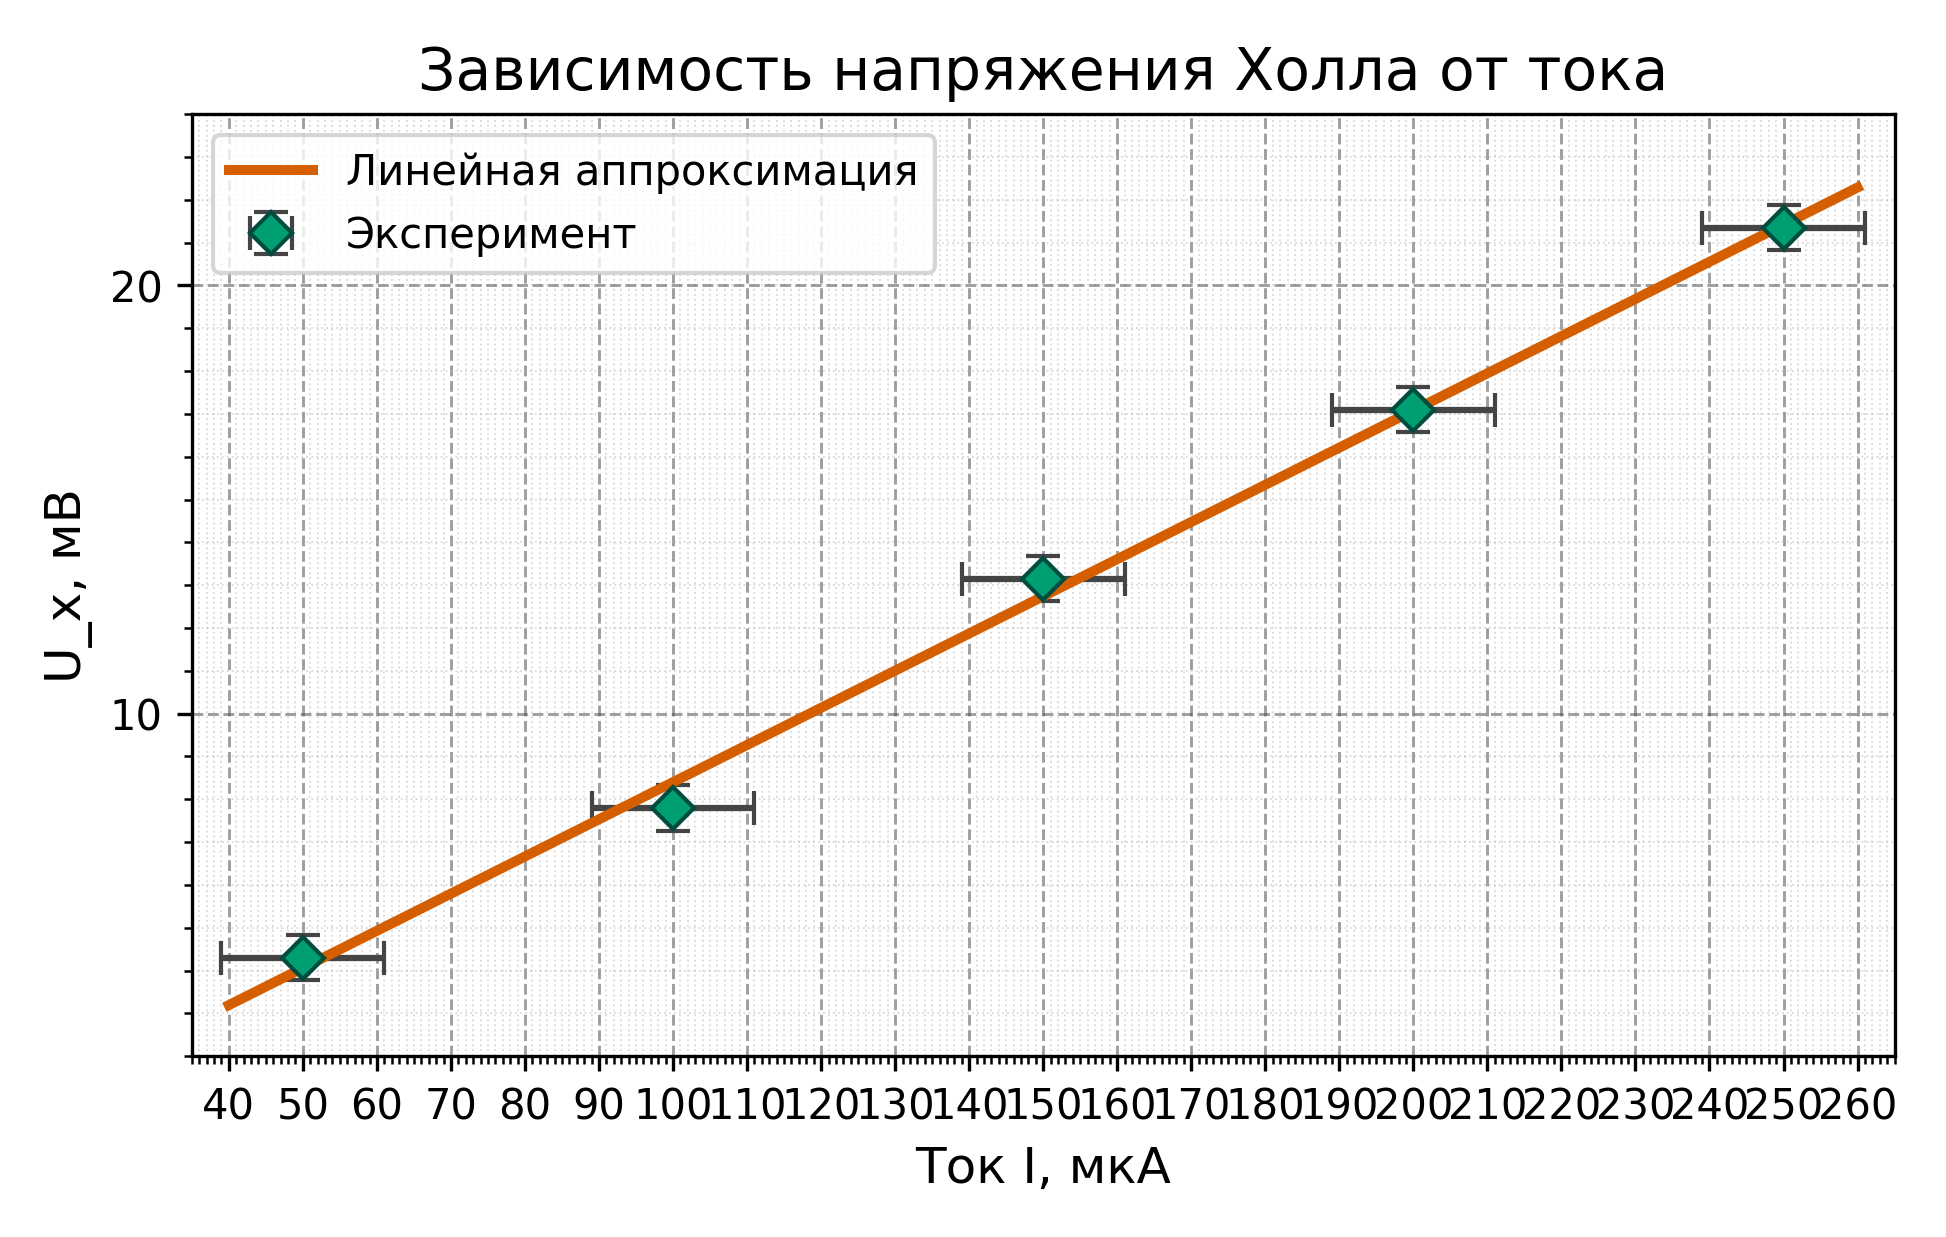
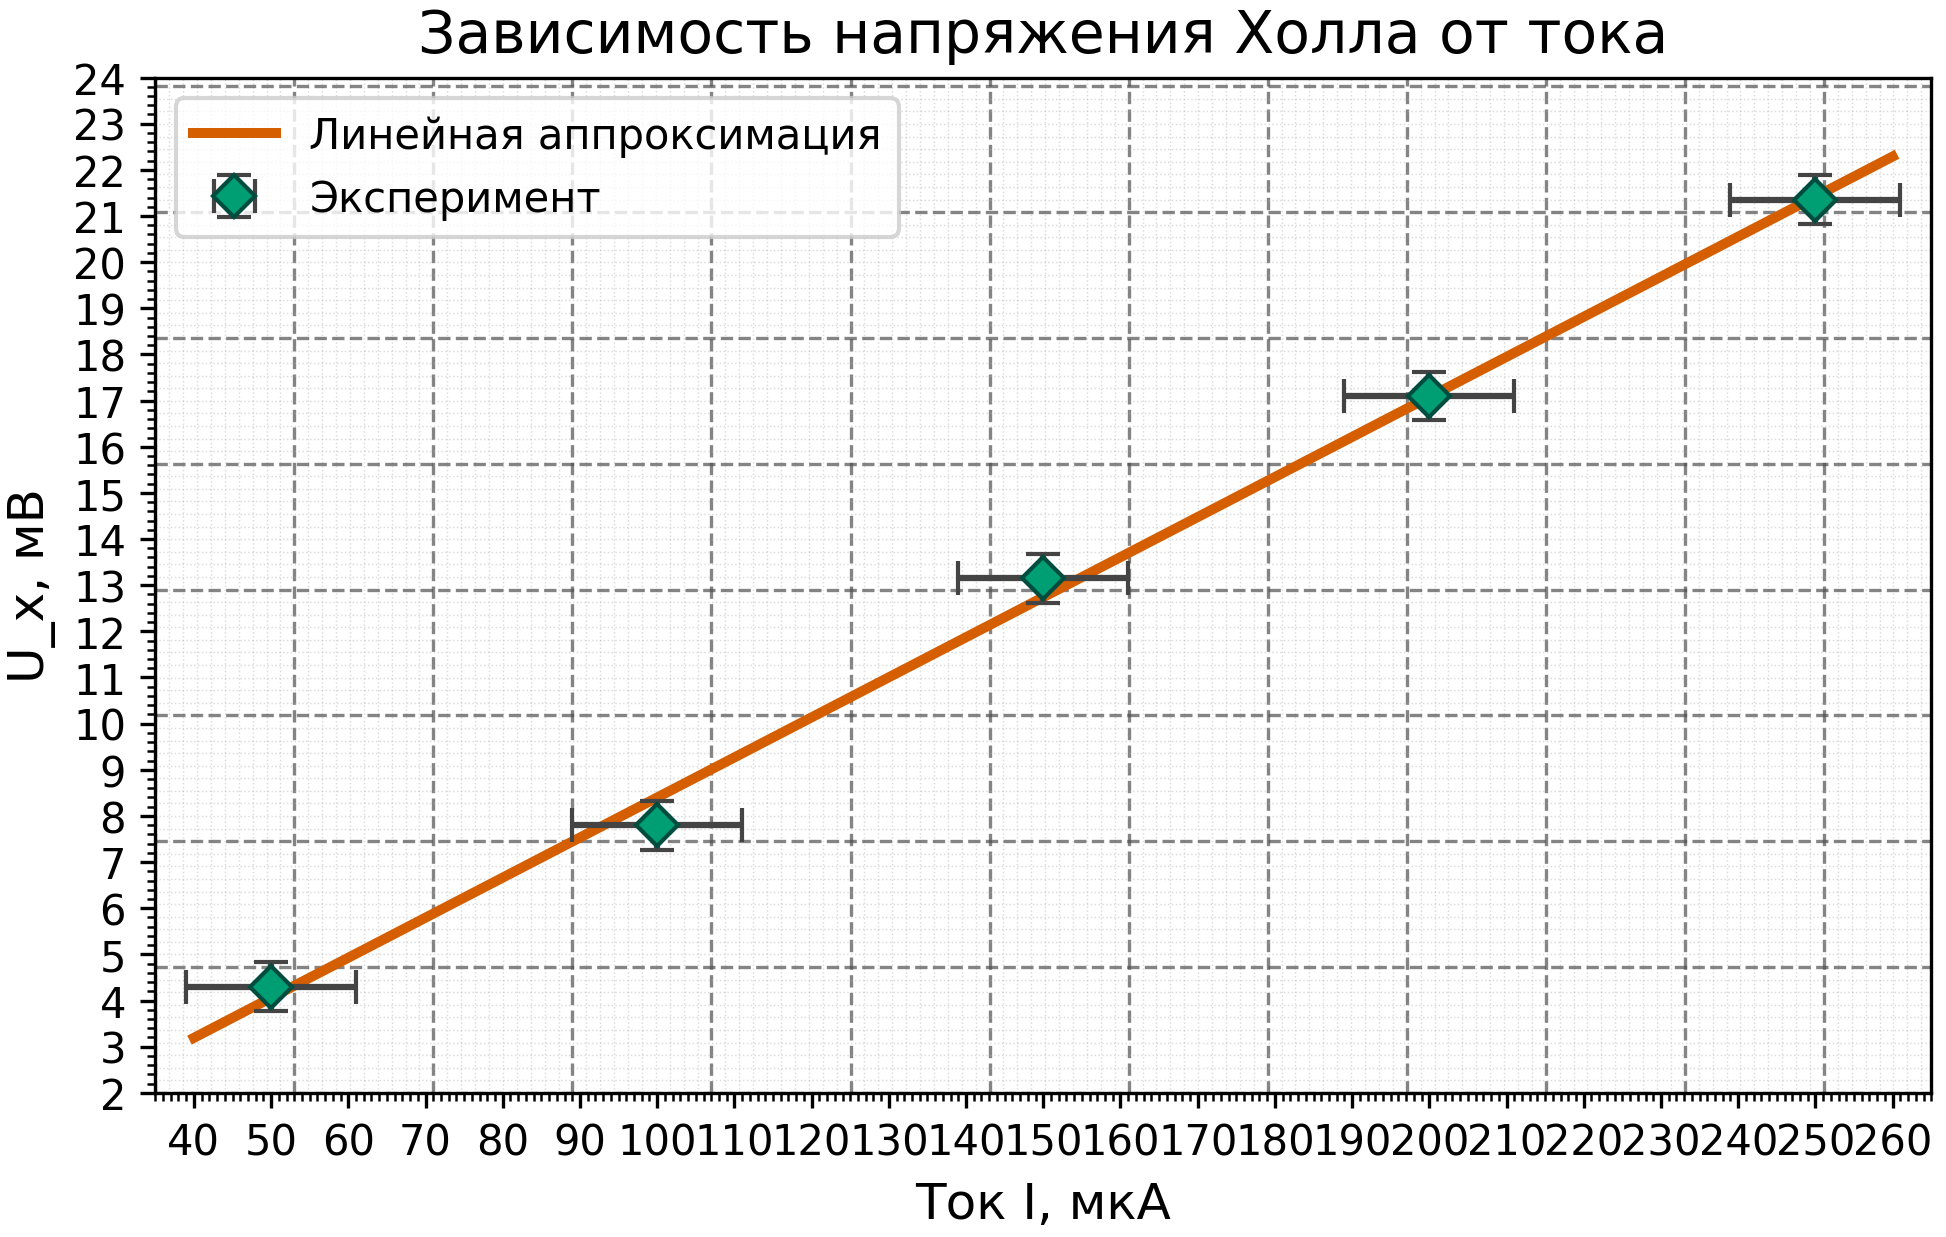
Fix 3

Changed region(s): [[0.0, 0.0, 1.0, 0.983]]

diff --git a/Lab_Holl/Holl_Ii.py b/Lab_Holl/Holl_Ii.py
@@ -3,7 +3,7 @@ import matplotlib.pyplot as plt
 from scipy import stats
 
 
-# ---------- ДАННЫЕ ----------
+# ---------------- ДАННЫЕ ----------------
 def load_set():
     currents = np.array([50, 100, 150, 200, 250])
     voltages = np.array([4.3, 7.8, 13.15, 17.1, 21.35])
@@ -12,47 +12,60 @@ def load_set():
     return currents, voltages, dI, dU
 
 
-# ---------- ЛИНЕЙНАЯ РЕГРЕССИЯ ----------
+# ---------------- ЛИНЕЙНАЯ АППРОКСИМАЦИЯ ----------------
 def fit_linear(x, y):
     m, b, *_ = stats.linregress(x, y)
     return m, b
 
 
-# ---------- ПОДГОТОВКА ОСЕЙ С ММ-СЕТКОЙ ----------
+# ---------------- ФИЗИЧЕСКАЯ ММ-СЕТКА ----------------
+def draw_physical_mm_grid(fig, ax, width_mm, height_mm, dpi):
+    fig.canvas.draw()
+    bbox = ax.get_window_extent()
+    px_per_mm = dpi / 25.4
+
+    # вертикальные линии
+    for x_mm in np.arange(0, width_mm + 0.1, 1):
+        display_x = bbox.x0 + x_mm * px_per_mm
+        xdata, _ = ax.transData.inverted().transform((display_x, bbox.y0))
+        if x_mm % 10 == 0:
+            ax.axvline(xdata, linewidth=0.8, linestyle='--', color="#505050", alpha=0.7, zorder=0)
+        else:
+            ax.axvline(xdata, linewidth=0.35, linestyle=':', color="#b0b0b0", alpha=0.45, zorder=0)
+
+    # горизонтальные линии
+    for y_mm in np.arange(0, height_mm + 0.1, 1):
+        display_y = bbox.y0 + y_mm * px_per_mm
+        _, ydata = ax.transData.inverted().transform((bbox.x0, display_y))
+        if y_mm % 10 == 0:
+            ax.axhline(ydata, linewidth=0.8, linestyle='--', color="#505050", alpha=0.7, zorder=0)
+        else:
+            ax.axhline(ydata, linewidth=0.35, linestyle=':', color="#b0b0b0", alpha=0.45, zorder=0)
+
+
+# ---------------- СОЗДАНИЕ ОСЕЙ ----------------
 def init_axes():
+    width_mm = 164.8       # 16.48 cm
+    height_mm = 104.8      # 10.48 cm
+    dpi = 300
 
-    # размеры в миллиметрах
-    width_mm = 164.8
-    height_mm = 104.8
-
-    # пересчёт в дюймы (1 дюйм = 25.4 мм)
-    width_in = width_mm / 25.4
-    height_in = height_mm / 25.4
-
-    # создаём картинку нужного реального размера
-    fig, ax = plt.subplots(figsize=(width_in, height_in), dpi=300)
-
+    fig, ax = plt.subplots(
+        figsize=(width_mm / 25.4, height_mm / 25.4),
+        dpi=dpi
+    )
     ax.set_axisbelow(True)
 
-    # основная сетка = 10 мм
-    ax.grid(which="major", linestyle="--", linewidth=0.7,
-            color="#505050", alpha=0.55)
-
-    # промежуточная сетка = 1 мм
-    ax.grid(which="minor", linestyle=":", linewidth=0.45,
-            color="#b0b0b0", alpha=0.45)
-
-    # интервалы осей задаём в мм
+    # локаторы для данных, НЕ для миллиметровки!
     ax.xaxis.set_major_locator(plt.MultipleLocator(10))
     ax.xaxis.set_minor_locator(plt.MultipleLocator(1))
 
-    ax.yaxis.set_major_locator(plt.MultipleLocator(10))
-    ax.yaxis.set_minor_locator(plt.MultipleLocator(1))
+    ax.yaxis.set_major_locator(plt.MultipleLocator(1))
+    ax.yaxis.set_minor_locator(plt.MultipleLocator(0.2))
 
-    return fig, ax
+    return fig, ax, width_mm, height_mm, dpi
 
 
-# ---------- ТОЧКИ И ПОГРЕШНОСТИ ----------
+# ---------------- ТОЧКИ ----------------
 def draw_data(ax, I, U, dI, dU):
     ax.errorbar(
         I, U,
@@ -64,11 +77,12 @@ def draw_data(ax, I, U, dI, dU):
         ecolor="#444444",
         linewidth=1.5,
         capsize=4,
-        label="Эксперимент"
+        label="Эксперимент",
+        zorder=5
     )
 
 
-# ---------- ЛИНИЯ РЕГРЕССИИ ----------
+# ---------------- ЛИНИЯ РЕГРЕССИИ ----------------
 def draw_fit(ax, slope, intercept):
     x_vals = np.linspace(40, 260, 250)
     y_vals = slope * x_vals + intercept
@@ -78,11 +92,12 @@ def draw_fit(ax, slope, intercept):
         color="#D55E00",
         linewidth=2.4,
         linestyle="-",
-        label="Линейная аппроксимация"
+        label="Линейная аппроксимация",
+        zorder=4
     )
 
 
-# ---------- ОФОРМЛЕНИЕ ----------
+# ---------------- ОФОРМЛЕНИЕ ----------------
 def finalize(ax):
     ax.set_xlabel("Ток I, мкА", fontsize=12)
     ax.set_ylabel("U_x, мВ", fontsize=12)
@@ -92,21 +107,23 @@ def finalize(ax):
     ax.legend()
 
 
-# ---------- СБОРКА ----------
+# ---------------- СБОРКА ----------------
 def build():
     I, U, dI, dU = load_set()
     slope, intercept = fit_linear(I, U)
 
-    fig, ax = init_axes()
+    fig, ax, width_mm, height_mm, dpi = init_axes()
     draw_data(ax, I, U, dI, dU)
     draw_fit(ax, slope, intercept)
     finalize(ax)
 
-    plt.tight_layout()
+    # ФИЗИЧЕСКАЯ МИЛЛИМЕТРОВКА
+    draw_physical_mm_grid(fig, ax, width_mm, height_mm, dpi)
 
-    # ВАЖНО: PNG при dpi=300 сохраняет реальный размер
-    plt.savefig("plot_grid_mm_correct.png", dpi=300)
+    plt.tight_layout(pad=0.2)
+    plt.savefig("plot_UxI_mm_true_grid.png", dpi=dpi)
     plt.show()
 
 
-build()
+if __name__ == "__main__":
+    build()

diff --git a/Lab_Holl/Holl_Uu.py b/Lab_Holl/Holl_Uu.py
@@ -16,34 +16,67 @@ def calc_average(values):
     return float(np.mean(values))
 
 
-# ---------------- ММ-ГРАФИК ----------------
+# ---------------- ФИЗИЧЕСКАЯ ММ-СЕТКА ----------------
+def draw_physical_mm_grid(fig, ax, width_mm=164.8, height_mm=104.8, dpi=300):
+    """
+    Рисует сетку в физических миллиметрах поверх axes.
+    width_mm, height_mm — размеры рисунка в мм (включая поля figure->axes).
+    dpi — разрешение при котором была создана фигура.
+    """
+
+    # Нужен рендер, чтобы трансформации были корректны
+    fig.canvas.draw()
+
+    # bbox оси в координатах окна (pixels)
+    bbox = ax.get_window_extent()
+
+    # шаг в пикселях для 1 mm
+    px_per_mm = dpi / 25.4
+
+    # вертикальные линии (по ширине фигуры)
+    for x_mm in np.arange(0, width_mm + 0.1, 1.0):
+        display_x = bbox.x0 + x_mm * px_per_mm
+        # Преобразуем точку из display -> data
+        xdata, _ = ax.transData.inverted().transform((display_x, bbox.y0))
+        # большой штрих через каждые 10 мм
+        if (x_mm % 10) == 0:
+            ax.axvline(xdata, linewidth=0.8, linestyle='--', color="#505050", alpha=0.7, zorder=0)
+        else:
+            ax.axvline(xdata, linewidth=0.35, linestyle=':', color="#b0b0b0", alpha=0.45, zorder=0)
+
+    # горизонтальные линии (по высоте фигуры)
+    for y_mm in np.arange(0, height_mm + 0.1, 1.0):
+        display_y = bbox.y0 + y_mm * px_per_mm
+        _, ydata = ax.transData.inverted().transform((bbox.x0, display_y))
+        if (y_mm % 10) == 0:
+            ax.axhline(ydata, linewidth=0.8, linestyle='--', color="#505050", alpha=0.7, zorder=0)
+        else:
+            ax.axhline(ydata, linewidth=0.35, linestyle=':', color="#b0b0b0", alpha=0.45, zorder=0)
+
+
+# ---------------- ОСЬ И СЕТКА В ЕДИНИЦАХ ДАННЫХ ----------------
 def make_axes():
-    # размеры в мм
+    # размеры в мм (физические)
     width_mm = 164.8
     height_mm = 104.8
 
-    # перевод в дюймы
+    # перевод в дюймы для figsize
     width_in = width_mm / 25.4
     height_in = height_mm / 25.4
 
+    # создаём фигуру нужного физического размера и dpi
     fig, ax = plt.subplots(figsize=(width_in, height_in), dpi=300)
     ax.set_axisbelow(True)
 
-    # основная сетка
-    ax.grid(which="major", linestyle="--", linewidth=0.7,
-            color="#4a4a4a", alpha=0.55)
-
-    # миллиметровая сетка
-    ax.grid(which="minor", linestyle=":", linewidth=0.45,
-            color="#9e9e9e", alpha=0.45)
-
-    # деления осей (НЕ физические мм, а значения графика)
+    # НЕ используем ax.grid для физической мм-сетки.
+    # Оставим стили отображения данных как раньше (major/minor в единицах данных),
+    # но реальную миллиметровую сетку мы дорисуем функцией draw_physical_mm_grid.
     ax.xaxis.set_major_locator(plt.MultipleLocator(2))
     ax.xaxis.set_minor_locator(plt.MultipleLocator(1))
     ax.yaxis.set_major_locator(plt.MultipleLocator(0.02))
     ax.yaxis.set_minor_locator(plt.MultipleLocator(0.01))
 
-    return fig, ax
+    return fig, ax, width_mm, height_mm
 
 
 # ---------------- ТОЧКИ ----------------
@@ -56,7 +89,8 @@ def draw_points(ax, u, rh, du, dr):
         markeredgecolor="#003f5c",
         ecolor="#404040",
         elinewidth=1.6, capsize=4,
-        label="Эксперимент"
+        label="Эксперимент",
+        zorder=5
     )
 
 
@@ -67,7 +101,8 @@ def draw_mean_line(ax, mean_val):
         color="#CC79A7",
         linestyle="-.",
         linewidth=2.3,
-        label="Среднее значение"
+        label="Среднее значение",
+        zorder=4
     )
 
 
@@ -87,14 +122,19 @@ def build_plot():
     u, rh, du, dr = load_input()
     mean_val = calc_average(rh)
 
-    fig, ax = make_axes()
+    fig, ax, width_mm, height_mm = make_axes()
     draw_points(ax, u, rh, du, dr)
     draw_mean_line(ax, mean_val)
     finalize_layout(ax, u, rh, du, dr)
 
-    plt.tight_layout()
-    plt.savefig("plot_RH_mm_correct.png", dpi=300)
+    # рисуем физическую миллиметровую сетку ПОСЛЕ установки лимитов и прорисовки данных
+    # (фигуру нужно предварительно отрисовать, поэтому вызываем canvas.draw внутри функции)
+    draw_physical_mm_grid(fig, ax, width_mm=width_mm, height_mm=height_mm, dpi=300)
+
+    plt.tight_layout(pad=0.2)
+    plt.savefig("plot_RH_mm_true_grid.png", dpi=300)
     plt.show()
 
 
-build_plot()
+if __name__ == "__main__":
+    build_plot()
